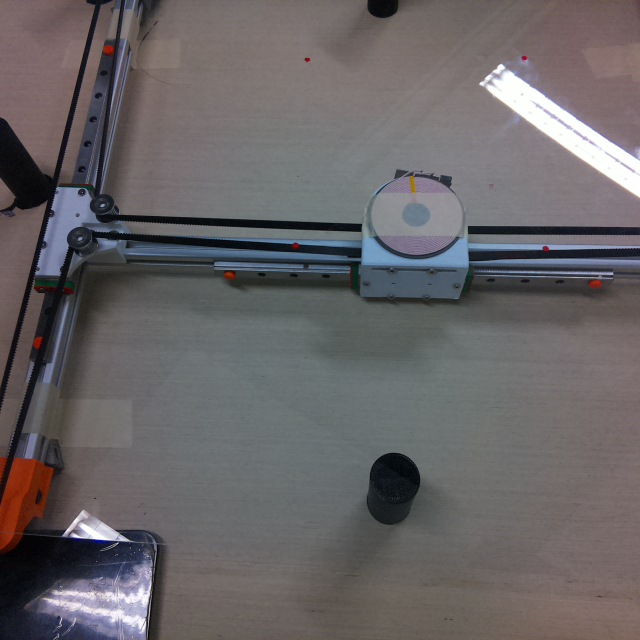
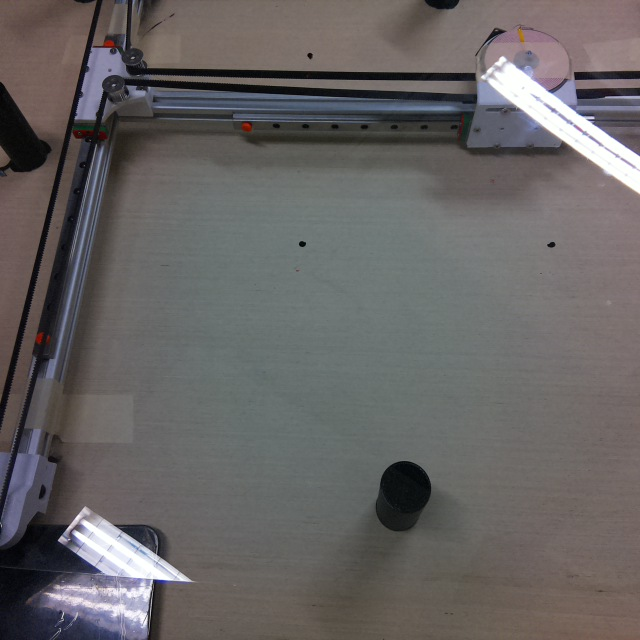
temp

diff --git a/remap.py b/remap.py
@@ -6,10 +6,10 @@ def remap_coor(x,y):
     # Define the four corners in the image
     # from the image perspective
     image_points = np.array([
-        [471.,  63.], # top right (origin)
-        [481., 249.], # bottom right
-        [240., 243.], # bottom left
-        [253.,  59.], # top left
+        [529.,  60.], # top right (origin)
+        [549., 251.], # bottom right
+        [300., 249.], # bottom left
+        [311.,  61.], # top left
     ], dtype=np.float32)
 
     # Define the real-world coordinates of the four corners

diff --git a/app.py b/app.py
@@ -81,7 +81,7 @@ try:
                 print("Can't open serial port.")
        
 
-        time.sleep(0.5)
+        time.sleep(1)
         # cnt += 1
 except KeyboardInterrupt:
     # Reset to origin
